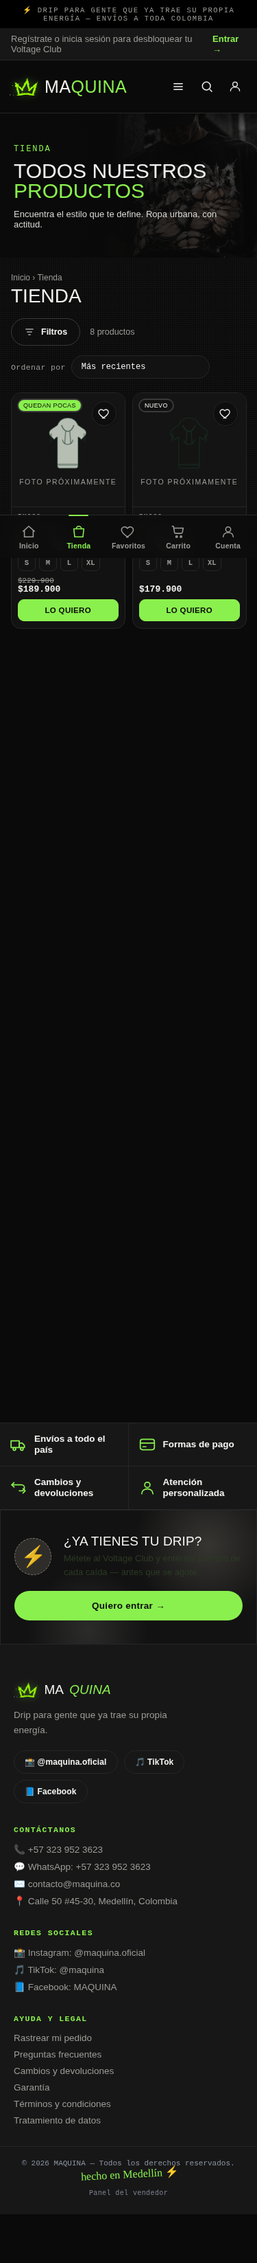
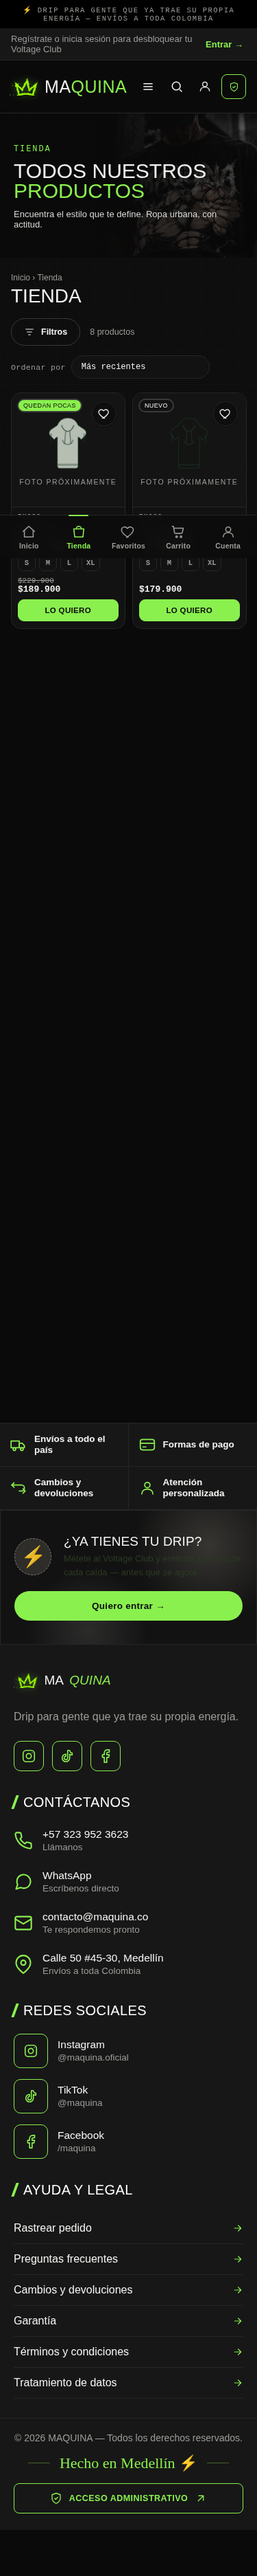
act

diff --git a/css/maquina-sistema.css b/css/maquina-sistema.css
@@ -236,48 +236,48 @@
 .subbar a{white-space:nowrap;flex-shrink:0;}
 
 /* ---------- 11) Pie de página rediseñado (columnas) ---------- */
-.footer-contacto .ft-inner{max-width:1400px;margin:0 auto;padding:56px clamp(20px,5vw,100px) 44px;display:grid;grid-template-columns:1.1fr 1.2fr 1fr 1fr;gap:clamp(28px,4vw,64px);align-items:start;}
-.footer-contacto .ft-slogan{color:var(--gray);font-size:16px;line-height:1.6;margin:14px 0 22px;max-width:260px;}
-.footer-contacto .ft-soc{display:flex;gap:12px;flex-wrap:wrap;}
-.footer-contacto .ft-box{width:44px;height:44px;flex-shrink:0;display:inline-grid;place-items:center;border:1.5px solid var(--acento);border-radius:10px;color:var(--acento);transition:background .2s ease,color .2s ease;}
+.footer-contacto .ft-inner{max-width:1400px;margin:0 auto;padding:42px clamp(20px,5vw,100px) 32px;display:grid;grid-template-columns:1.1fr 1.2fr 1fr 1fr;gap:clamp(22px,3vw,48px);align-items:start;}
+.footer-contacto .ft-slogan{color:var(--gray);font-size:13px;line-height:1.55;margin:10px 0 16px;max-width:230px;}
+.footer-contacto .ft-soc{display:flex;gap:9px;flex-wrap:wrap;}
+.footer-contacto .ft-box{width:34px;height:34px;flex-shrink:0;display:inline-grid;place-items:center;border:1.5px solid var(--acento);border-radius:10px;color:var(--acento);transition:background .2s ease,color .2s ease;}
 .footer-contacto a.ft-box:hover,.footer-contacto a.ft-item:hover .ft-box{background:var(--acento);color:var(--acento-ink);}
-.footer-contacto .ft-box svg{width:22px;height:22px;}
-.footer-contacto .ft-h{display:flex;align-items:center;gap:10px;margin:0 0 22px;font-family:'Anton',sans-serif;font-weight:400;font-size:20px;letter-spacing:.02em;text-transform:uppercase;color:#fff;}
-.footer-contacto .ft-h::before{content:"";width:4px;height:20px;background:var(--acento);transform:skewX(-20deg);}
+.footer-contacto .ft-box svg{width:17px;height:17px;}
+.footer-contacto .ft-h{display:flex;align-items:center;gap:8px;margin:0 0 15px;font-family:'Anton',sans-serif;font-weight:400;font-size:15.5px;letter-spacing:.02em;text-transform:uppercase;color:#fff;}
+.footer-contacto .ft-h::before{content:"";width:3px;height:15px;background:var(--acento);transform:skewX(-20deg);}
 .footer-contacto .ft-list,.footer-contacto .ft-legal{list-style:none;margin:0;padding:0;}
-.footer-contacto .ft-list{display:flex;flex-direction:column;gap:16px;}
-.footer-contacto .ft-item{display:flex;align-items:center;gap:14px;min-height:44px;color:var(--offwhite);text-decoration:none;}
-.footer-contacto .ft-item > svg.ic{width:28px;height:28px;flex-shrink:0;color:var(--acento);}
+.footer-contacto .ft-list{display:flex;flex-direction:column;gap:9px;}
+.footer-contacto .ft-item{display:flex;align-items:center;gap:11px;min-height:34px;color:var(--offwhite);text-decoration:none;}
+.footer-contacto .ft-item > svg.ic{width:22px;height:22px;flex-shrink:0;color:var(--acento);}
 .footer-contacto .ft-item span{min-width:0;}
-.footer-contacto .ft-item b{display:block;font-weight:500;font-size:15.5px;color:var(--offwhite);overflow-wrap:anywhere;}
-.footer-contacto .ft-item small{display:block;margin-top:2px;font-size:13.5px;color:var(--gray);}
+.footer-contacto .ft-item b{display:block;font-weight:500;font-size:12.5px;color:var(--offwhite);overflow-wrap:anywhere;}
+.footer-contacto .ft-item small{display:block;margin-top:1px;font-size:11px;color:var(--gray);}
 .footer-contacto a.ft-item:hover b{color:var(--acento);}
-.footer-contacto .ft-net .ft-box,.footer-contacto .ft-item .ft-box{width:50px;height:50px;}
+.footer-contacto .ft-net .ft-box,.footer-contacto .ft-item .ft-box{width:38px;height:38px;}
 .footer-contacto .ft-legal li{border-bottom:1px solid var(--line);}
-.footer-contacto .ft-legal a{display:flex;align-items:center;justify-content:space-between;gap:12px;min-height:44px;padding:8px 0;color:var(--offwhite);text-decoration:none;}
+.footer-contacto .ft-legal a{display:flex;align-items:center;justify-content:space-between;gap:10px;min-height:34px;padding:5px 0;font-size:12.5px;color:var(--offwhite);text-decoration:none;}
 .footer-contacto .ft-legal a:hover{color:var(--acento);}
-.footer-contacto .ft-legal svg{width:16px;height:16px;flex-shrink:0;color:var(--acento);}
-.footer-contacto .ft-bottom{max-width:1400px;margin:0 auto;padding:22px clamp(20px,5vw,100px) 28px;border-top:1px solid var(--line);display:grid;grid-template-columns:1fr auto 1fr;align-items:center;gap:16px 24px;}
-.footer-contacto .ft-copy{margin:0;font-size:14px;color:var(--gray);}
-.footer-contacto .ft-made{display:flex;align-items:center;gap:14px;font-family:'Caveat',cursive;font-size:22px;color:var(--acento);white-space:nowrap;}
-.footer-contacto .ft-made::before,.footer-contacto .ft-made::after{content:"";width:60px;height:1px;background:rgba(138,240,78,.35);}
-.footer-contacto .ft-admin{justify-self:end;display:inline-flex;align-items:center;justify-content:center;gap:10px;min-height:44px;padding:10px 18px;border:1.5px solid var(--acento);border-radius:8px;color:var(--acento);font-size:12.5px;font-weight:700;letter-spacing:.04em;text-transform:uppercase;text-decoration:none;transition:background .2s ease,color .2s ease;}
-.footer-contacto .ft-admin svg{width:18px;height:18px;flex-shrink:0;}
+.footer-contacto .ft-legal svg{width:13px;height:13px;flex-shrink:0;color:var(--acento);}
+.footer-contacto .ft-bottom{max-width:1400px;margin:0 auto;padding:14px clamp(20px,5vw,100px) 18px;border-top:1px solid var(--line);display:grid;grid-template-columns:1fr auto 1fr;align-items:center;gap:10px 20px;}
+.footer-contacto .ft-copy{margin:0;font-size:11.5px;color:var(--gray);}
+.footer-contacto .ft-made{display:flex;align-items:center;gap:11px;font-family:'Caveat',cursive;font-size:17px;color:var(--acento);white-space:nowrap;}
+.footer-contacto .ft-made::before,.footer-contacto .ft-made::after{content:"";width:44px;height:1px;background:rgba(138,240,78,.35);}
+.footer-contacto .ft-admin{justify-self:end;display:inline-flex;align-items:center;justify-content:center;gap:7px;min-height:30px;padding:5px 11px;border:1px solid rgba(138,240,78,.55);border-radius:7px;color:var(--acento);font-size:10.5px;font-weight:600;letter-spacing:.05em;text-transform:uppercase;text-decoration:none;transition:background .2s ease,color .2s ease;}
+.footer-contacto .ft-admin svg{width:13px;height:13px;flex-shrink:0;}
 .footer-contacto .ft-admin:hover{background:var(--acento);color:var(--acento-ink);}
 @media (max-width:1000px){
-  .footer-contacto .ft-inner{grid-template-columns:1fr 1fr;padding-top:44px;}
+  .footer-contacto .ft-inner{grid-template-columns:1fr 1fr;padding-top:34px;}
   .footer-contacto .ft-brand{grid-column:1/-1;}
   .footer-contacto .ft-slogan{max-width:none;}
 }
 @media (max-width:700px){
   .footer-contacto .ft-bottom{grid-template-columns:1fr;text-align:center;justify-items:center;}
   .footer-contacto .ft-made{order:2;}
-  .footer-contacto .ft-admin{order:3;justify-self:stretch;}
+  .footer-contacto .ft-admin{order:3;justify-self:center;}
   .footer-contacto .ft-copy{order:1;}
 }
 @media (max-width:560px){
-  .footer-contacto .ft-inner{grid-template-columns:1fr;gap:34px;padding:36px 20px 28px;}
-  .footer-contacto .ft-bottom{padding:20px 20px 24px;}
+  .footer-contacto .ft-inner{grid-template-columns:1fr;gap:24px;padding:28px 20px 20px;}
+  .footer-contacto .ft-bottom{padding:14px 20px 18px;}
   .footer-contacto .ft-made::before,.footer-contacto .ft-made::after{width:32px;}
 }
 

diff --git a/js/layout.js b/js/layout.js
@@ -81,6 +81,7 @@ function renderHeader(paginaActual = "") {
           <svg class="icon-btn" viewBox="0 0 24 24" fill="none" stroke="currentColor" stroke-width="1.8"><circle cx="11" cy="11" r="7"/><path d="m21 21-4.3-4.3"/></svg>
         </button>
         ${cuentaHtml}
+        <a href="admin.html" class="admin-access" aria-label="Acceso admin" title="Acceso admin"><svg viewBox="0 0 24 24" fill="none" stroke="currentColor" stroke-width="1.8" stroke-linecap="round" stroke-linejoin="round" aria-hidden="true"><path d="M12 22s8-4 8-10V5l-8-3-8 3v7c0 6 8 10 8 10z"/><path d="m9 12 2 2 4-4"/></svg><span class="admin-access-txt">Acceso admin</span><svg class="admin-access-arr" viewBox="0 0 24 24" fill="none" stroke="currentColor" stroke-width="2" stroke-linecap="round" stroke-linejoin="round" aria-hidden="true"><path d="M5 12h14M13 6l6 6-6 6"/></svg></a>
         <a class="fav-pill" href="favoritos.html" aria-label="Mis favoritos" title="Mis favoritos">
           <svg class="icon-btn" viewBox="0 0 24 24" fill="none" stroke="currentColor" stroke-width="1.8"><path d="M12 20.5s-7.6-4.6-10-9.3C.5 7.8 2.3 4.5 5.6 4c2-.3 3.9.7 5 2.3.1.15.3.15.4 0 1.1-1.6 3-2.6 5-2.3 3.3.5 5.1 3.8 3.6 7.2-2.4 4.7-10 9.3-10 9.3z"/></svg>
           <span id="favCount" class="fav-count ${totalFavoritosCount() === 0 ? 'hidden' : ''}">${totalFavoritosCount()}</span>
@@ -116,6 +117,7 @@ function renderHeader(paginaActual = "") {
         ${usuario
           ? `<a href="#" id="mobileLogout">Cerrar sesión</a>`
           : `<a href="login.html" class="mobile-nav-primary">Iniciar sesión</a><a href="registro.html">Crear cuenta</a>`}
+        <a href="admin.html" class="mobile-nav-admin">Acceso admin</a>
       </div>
     </div>
 

diff --git a/css/estilos.css b/css/estilos.css
@@ -2917,3 +2917,15 @@ textarea.pe-input{resize:vertical;min-height:84px;}
 /* ---- aviso (toast) del panel: por encima de los modales y sin asomarse cuando está oculto ---- */
 body:has(#adminDashView) .toast{z-index:400;bottom:calc(26px + env(safe-area-inset-bottom));transition:transform .35s cubic-bezier(.2,.9,.3,1.2),visibility 0s linear .35s;visibility:hidden;}
 body:has(#adminDashView) .toast.show{visibility:visible;transition:transform .35s cubic-bezier(.2,.9,.3,1.2),visibility 0s;}
+
+/* Acceso admin: botón discreto, separado de la cuenta de clientes */
+.admin-access{display:inline-flex;align-items:center;gap:6px;margin:0 8px 0 10px;padding:6px 11px;border:1px solid var(--acento);border-radius:8px;color:var(--acento);font-size:12px;font-weight:600;line-height:1;white-space:nowrap;background:transparent;transition:background .2s,box-shadow .2s;}
+.admin-access svg{width:15px;height:15px;flex:none;}
+.admin-access:hover,.admin-access:focus-visible{background:rgba(138,240,78,.1);box-shadow:0 0 10px var(--acento-glow);}
+.mobile-nav-foot a.mobile-nav-admin{border-color:var(--acento);color:var(--acento);background:transparent;font-size:13px;padding:10px 14px;}
+@media (max-width:1100px){
+  .admin-access{margin:0 4px;padding:0;width:40px;min-height:40px;justify-content:center;}
+  .admin-access-txt,.admin-access-arr{display:none;}
+}
+@media (max-width:480px){.admin-access{display:none;}}
+@media (min-width:481px){.mobile-nav-admin{display:none;}}
